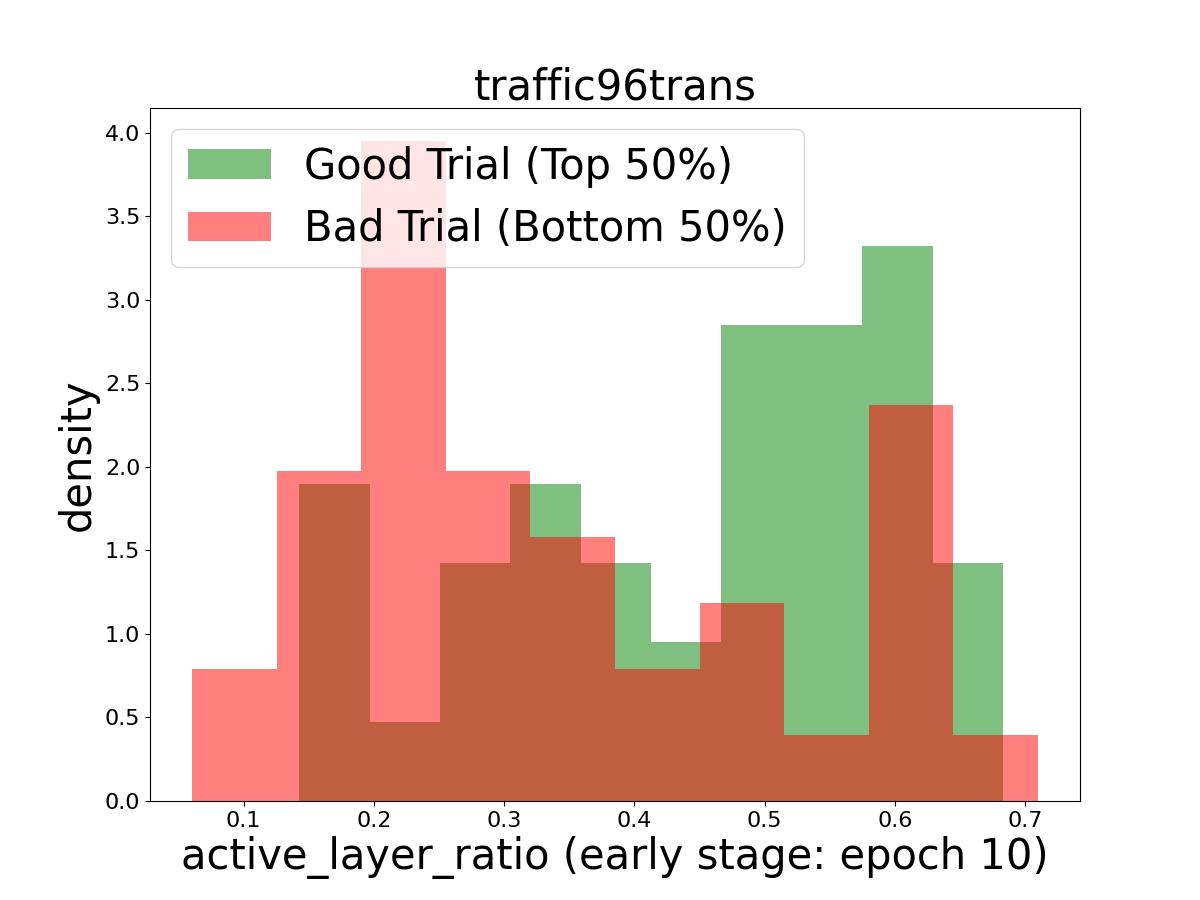
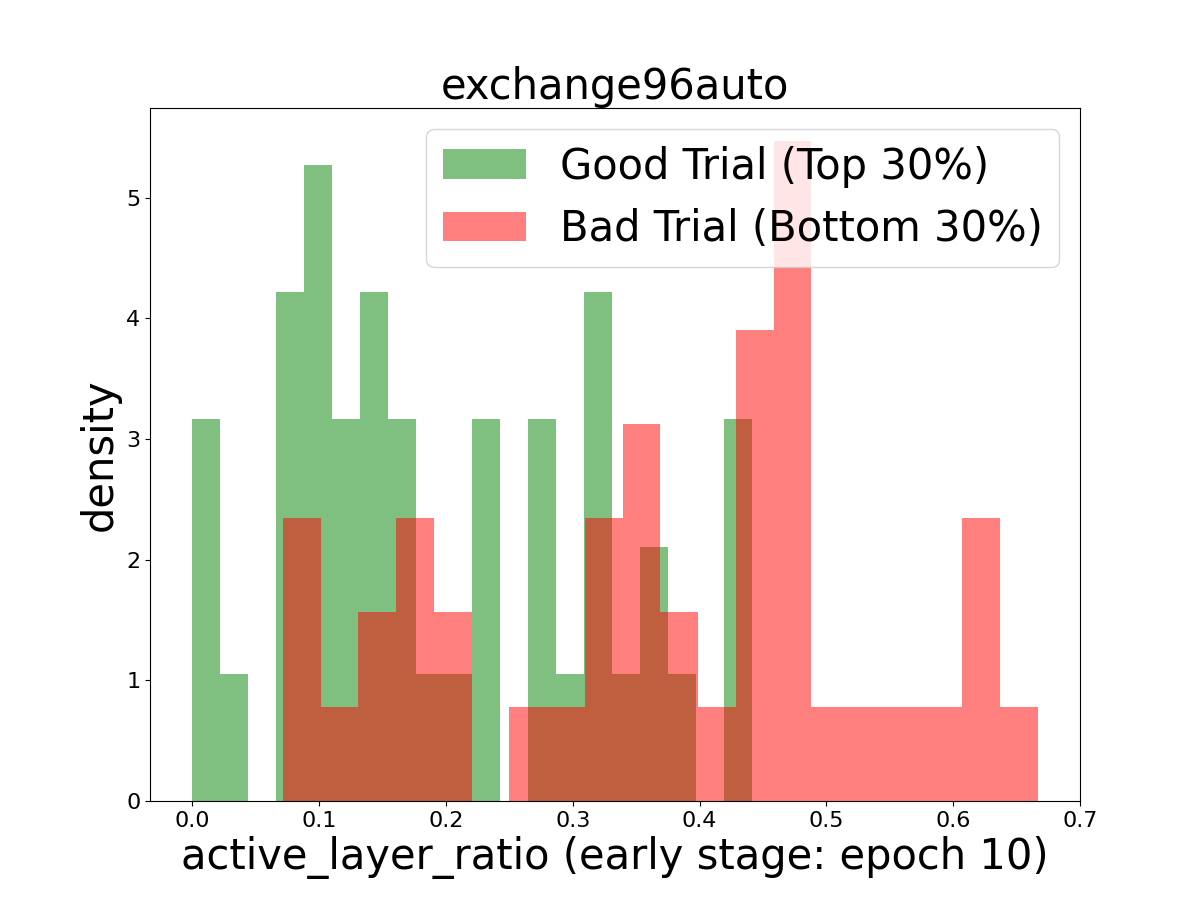
update figs feature

diff --git a/tools/_graph.py b/tools/_graph.py
@@ -1005,7 +1005,7 @@ def plot_phenomenon():
         plt.figure(figsize=fig_size)
 
     def get_bin_num(loss_flag):
-        return 10 if loss_flag else 30
+        return 20 if loss_flag else 20
 
     def get_metric(result_dict, metric_name):
         if metric_name == "val_acc":
@@ -1088,9 +1088,10 @@ def plot_phenomenon():
 
     def plot_p2():
         early_idx = 10
-        percent = 50
+        percent = 30
         density = True
-        scene_name = "traffic96trans"
+        # scene_name = "traffic96trans"
+        scene_name = "exchange96auto"
         final_metric_name = "val_loss"
         early_metric_name = "active_layer_ratio"
         _plot_early_feature_distribution(early_metric_name, final_metric_name, scene_name, early_idx, percent,density)
